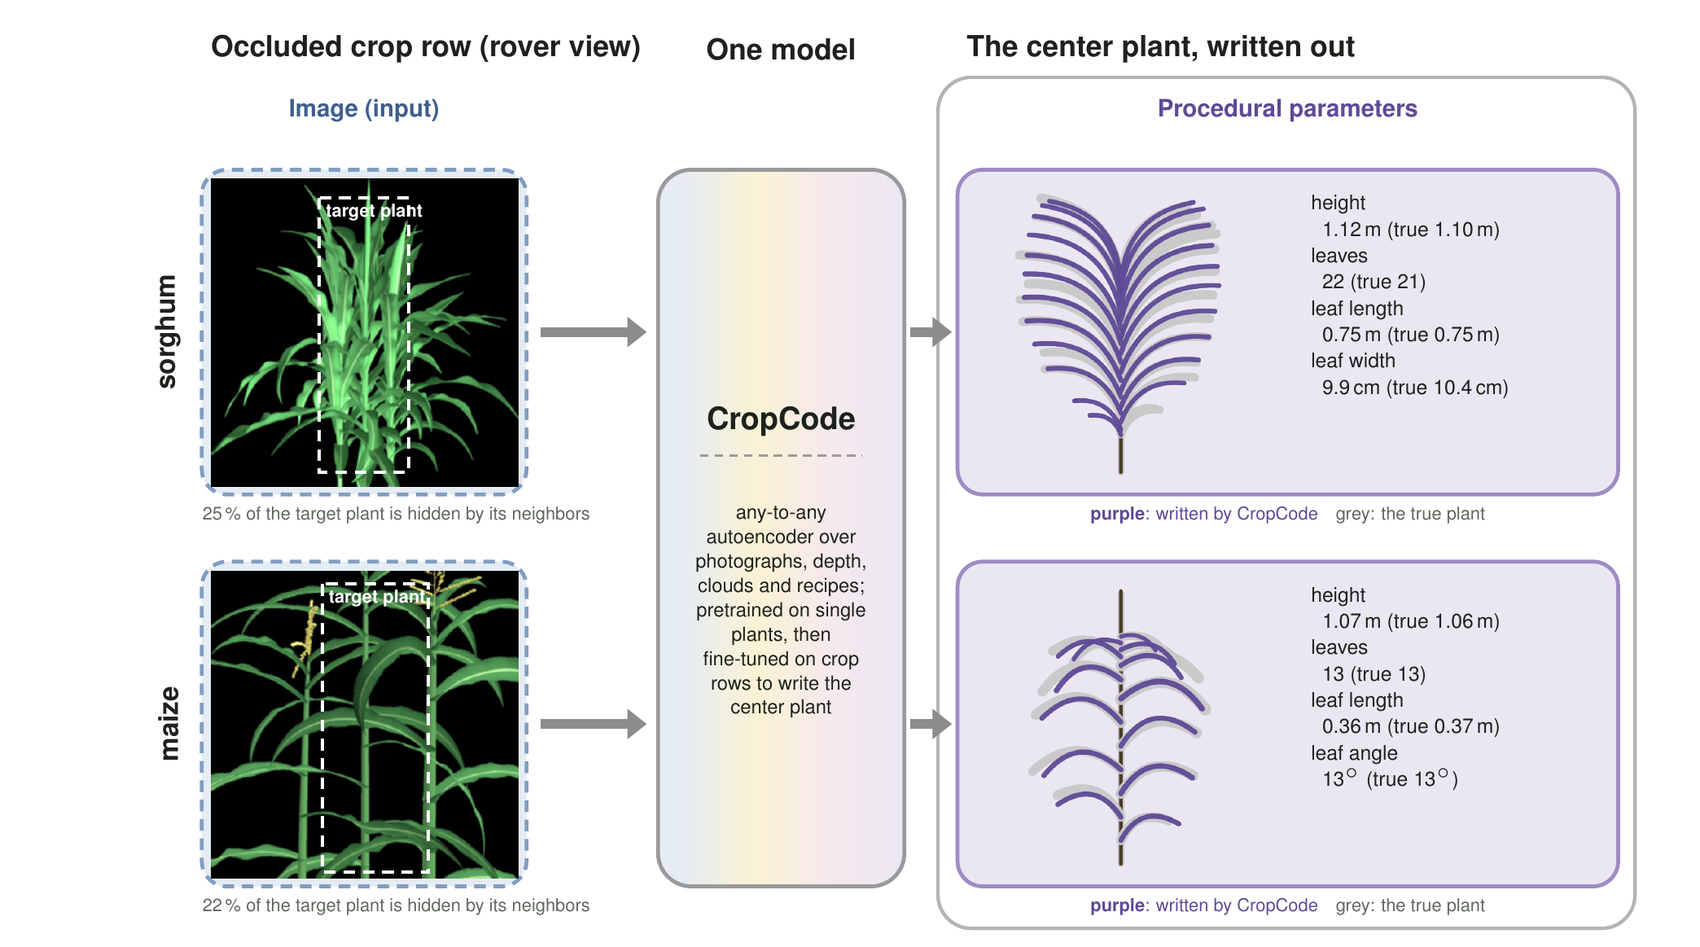
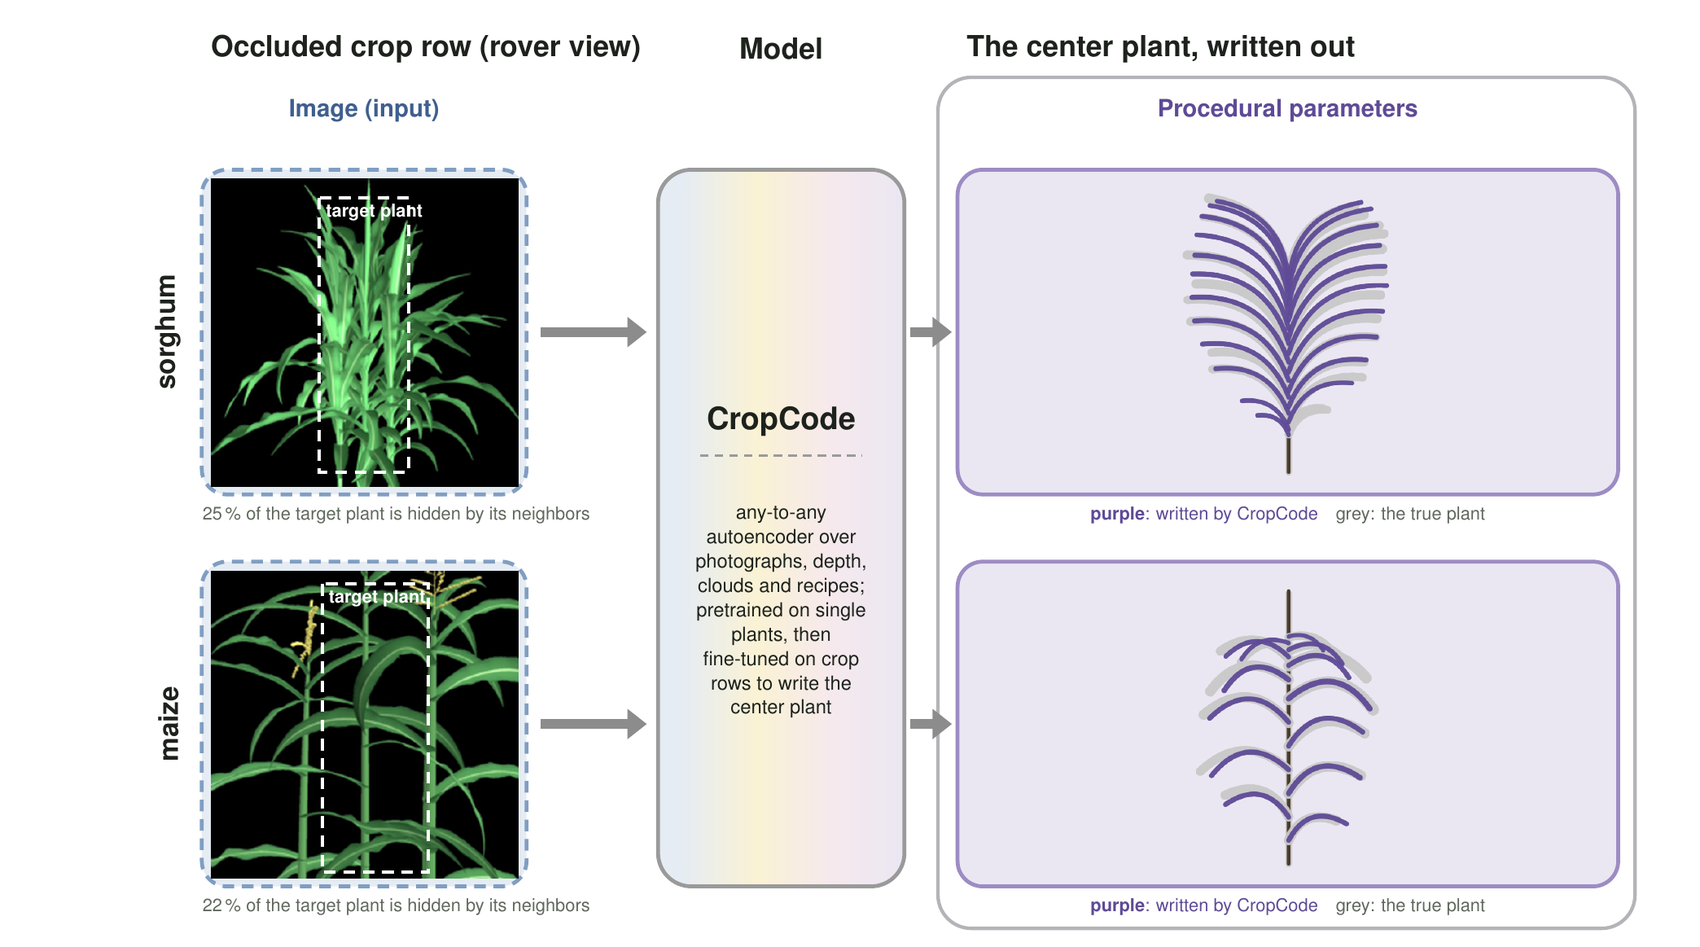
Fig. 1 UGG teaser: header 'Model' (was 'One model'); procedural-parameter boxes show the schematic only, centred, no value text.

Changed region(s): [[0.5924, 0.1837, 0.8729, 0.49], [0.5924, 0.6125, 0.8729, 0.9187], [0.4053, 0.0306, 0.4988, 0.0612]]

diff --git a/figures/pages/ugg_compare/index.html b/figures/pages/ugg_compare/index.html
@@ -73,7 +73,7 @@
   <div class="group" id="diagrams"><div class="k">Diagrams</div></div>
   <section aria-labelledby="h-fig-teaser">
     <h2 id="h-fig-teaser">Fig. 1 · Teaser</h2>
-    <p>Observation in, complete plant out. UGG's Fig. 1: one dashed input box per observation, a model block with a soft gradient through the four stream colours and a dashed rule, and one grey frame around everything the model writes. Same images, numbers and Helvetica text.</p>
+    <p>Observation in, procedural parameters out. The output is shown only as procedural parameters, drawn as in the any-input-to-all figure: the recipe CropCode writes in purple over the true one in grey, no value text. The middle header reads "Model". From UGG's Fig. 1: a dashed input box, a model block with a soft gradient through the four stream colours, and one grey frame around everything the model writes. Same plants, numbers and Helvetica text.</p>
     <div class="pair">
       <figure class="paper"><div class="figbox"><img loading="lazy" src="img/fig_teaser_cur.png" alt="Fig. 1 · Teaser, current paper version"></div><figcaption>Current paper</figcaption></figure>
       <figure class="ugg"><div class="figbox"><img loading="lazy" src="img/fig_teaser_ugg.png" alt="Fig. 1 · Teaser, UGG-style version"></div><figcaption>UGG ideas, our font</figcaption></figure>

diff --git a/paper/overleaf/Figures/fig_teaser_tikz_ugg.tex b/paper/overleaf/Figures/fig_teaser_tikz_ugg.tex
@@ -5,7 +5,7 @@
 % the input dashed and the outputs solid, a neutral model block, grey block arrows. Not used by main.tex.
 % Base: hand-written TikZ teaser, v3 (2026-11-12, meeting request): simplified to
 % cluttered scene + target box -> CropCode -> procedural fit + traits;
-% 2026-11-13 (user): output = procedural parameters only, drawn as in the any-to-all figure (figures/make_teaser_recipe_tiles.py); the
+% 2026-11-13 (user): header 'Model'; output = procedural parameters only (schematic, no value text), drawn as in the any-to-all figure (figures/make_teaser_recipe_tiles.py); the
 % depth, input-cloud and recipe-table tiles of the drawio export are removed.
 % Supersedes the output of figures/teaser_drawio_to_tikz.py -- rerunning that
 % script would overwrite this file with the old six-column layout.
@@ -34,7 +34,7 @@
 \draw[draw=uOutE, line width=0.9pt, rounded corners=8.6pt] (580.0,48.0) rectangle (1078.0,656.0);
 % ---- column headers ----
 \node[anchor=west, inner sep=0, align=left, text={rgbhex1d221c}, font={\fontsize{7.5}{9.4}\selectfont\sffamily\bfseries}] at (60.0,28.0) {Occluded crop row (rover view)};
-\node[anchor=center, inner sep=0, align=center, text={rgbhex1d221c}, font={\fontsize{7.5}{9.4}\selectfont\sffamily\bfseries}] at (468.0,28.0) {One model};
+\node[anchor=center, inner sep=0, align=center, text={rgbhex1d221c}, font={\fontsize{7.5}{9.4}\selectfont\sffamily\bfseries}] at (468.0,28.0) {Model};
 \node[anchor=west, inner sep=0, align=left, text={rgbhex1d221c}, font={\fontsize{7.5}{9.4}\selectfont\sffamily\bfseries}] at (600.0,28.0) {The center plant, written out};
 \node[anchor=center, inner sep=0, align=center, text=uRgbI, font={\fontsize{6.2}{7.7}\selectfont\sffamily\bfseries}] at (170.0,72.0) {Image (input)};
 \node[anchor=center, inner sep=0, align=center, text=uTxI, font={\fontsize{6.2}{7.7}\selectfont\sffamily\bfseries}] at (830.0,72.0) {Procedural parameters};
@@ -48,11 +48,10 @@
 \node[anchor=north west, inner sep=0, align=left, text={rgbhex5f685c}, font={\fontsize{4.6}{5.8}\selectfont\sffamily}] at (54.0,354.0) {25\,\% of the target plant is hidden by its neighbors};
 \draw[color=uArrow, line width=2.6pt, -{Triangle[length=5pt,width=7.5pt]}] (296.0,230.0) -- (372.0,230.0);
 \draw[draw=uTxE, line width=1.0pt, rounded corners=6.5pt, fill=uTxF] (594.0,114.0) rectangle (1066.0,346.0);
-\node[anchor=north west, inner sep=0] at (600.0,120.0) {\includegraphics[width=1.1000in, height=1.1000in]{Figures/teaser/s_recipe.png}};
+\node[anchor=north west, inner sep=0] at (720.0,120.0) {\includegraphics[width=1.1000in, height=1.1000in]{Figures/teaser/s_recipe.png}};
 
 \draw[color=uArrow, line width=2.6pt, -{Triangle[length=5pt,width=7.5pt]}] (560.0,230.0) -- (590.0,230.0);
 \node[anchor=north, inner sep=0, align=center, text={rgbhex5f685c}, font={\fontsize{4.6}{5.8}\selectfont\sffamily}] at (830.0,354.0) {\textcolor{uTxI}{\textbf{purple}: written by CropCode}\quad grey: the true plant};
-\node[anchor=north west, inner sep=0, align=left, text={rgbhex1d221c}, font={\fontsize{5.2}{6.8}\selectfont\sffamily}] at (846.0,132.0) {height\\~~1.12\,m (true 1.10\,m)\\leaves\\~~22 (true 21)\\leaf length\\~~0.75\,m (true 0.75\,m)\\leaf width\\~~9.9\,cm (true 10.4\,cm)};
 \node[anchor=center, inner sep=0, align=center, text={rgbhex1d221c}, font={\fontsize{7.0}{8.7}\selectfont\sffamily\bfseries}, rotate=90] at (30.0,230.0) {sorghum};
 % ================= maize row =================
 \draw[draw=uRgbE, line width=1.0pt, rounded corners=6.5pt, fill=uRgbF, dash pattern=on 3pt off 2pt] (54.0,394.0) rectangle (286.0,626.0);
@@ -63,10 +62,9 @@
 \node[anchor=north west, inner sep=0, align=left, text={rgbhex5f685c}, font={\fontsize{4.6}{5.8}\selectfont\sffamily}] at (54.0,634.0) {22\,\% of the target plant is hidden by its neighbors};
 \draw[color=uArrow, line width=2.6pt, -{Triangle[length=5pt,width=7.5pt]}] (296.0,510.0) -- (372.0,510.0);
 \draw[draw=uTxE, line width=1.0pt, rounded corners=6.5pt, fill=uTxF] (594.0,394.0) rectangle (1066.0,626.0);
-\node[anchor=north west, inner sep=0] at (600.0,400.0) {\includegraphics[width=1.1000in, height=1.1000in]{Figures/teaser/m_recipe.png}};
+\node[anchor=north west, inner sep=0] at (720.0,400.0) {\includegraphics[width=1.1000in, height=1.1000in]{Figures/teaser/m_recipe.png}};
 
 \draw[color=uArrow, line width=2.6pt, -{Triangle[length=5pt,width=7.5pt]}] (560.0,510.0) -- (590.0,510.0);
 \node[anchor=north, inner sep=0, align=center, text={rgbhex5f685c}, font={\fontsize{4.6}{5.8}\selectfont\sffamily}] at (830.0,634.0) {\textcolor{uTxI}{\textbf{purple}: written by CropCode}\quad grey: the true plant};
-\node[anchor=north west, inner sep=0, align=left, text={rgbhex1d221c}, font={\fontsize{5.2}{6.8}\selectfont\sffamily}] at (846.0,412.0) {height\\~~1.07\,m (true 1.06\,m)\\leaves\\~~13 (true 13)\\leaf length\\~~0.36\,m (true 0.37\,m)\\leaf angle\\~~13$^\circ$ (true 13$^\circ$)};
 \node[anchor=center, inner sep=0, align=center, text={rgbhex1d221c}, font={\fontsize{7.0}{8.7}\selectfont\sffamily\bfseries}, rotate=90] at (30.0,510.0) {maize};
 \end{tikzpicture}
